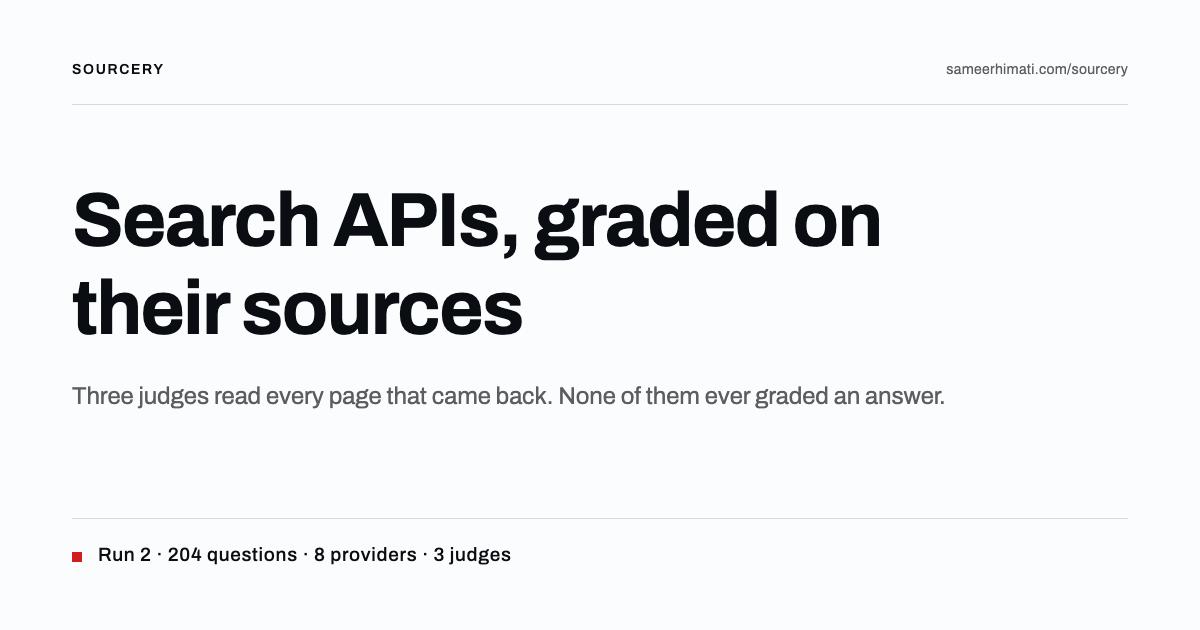
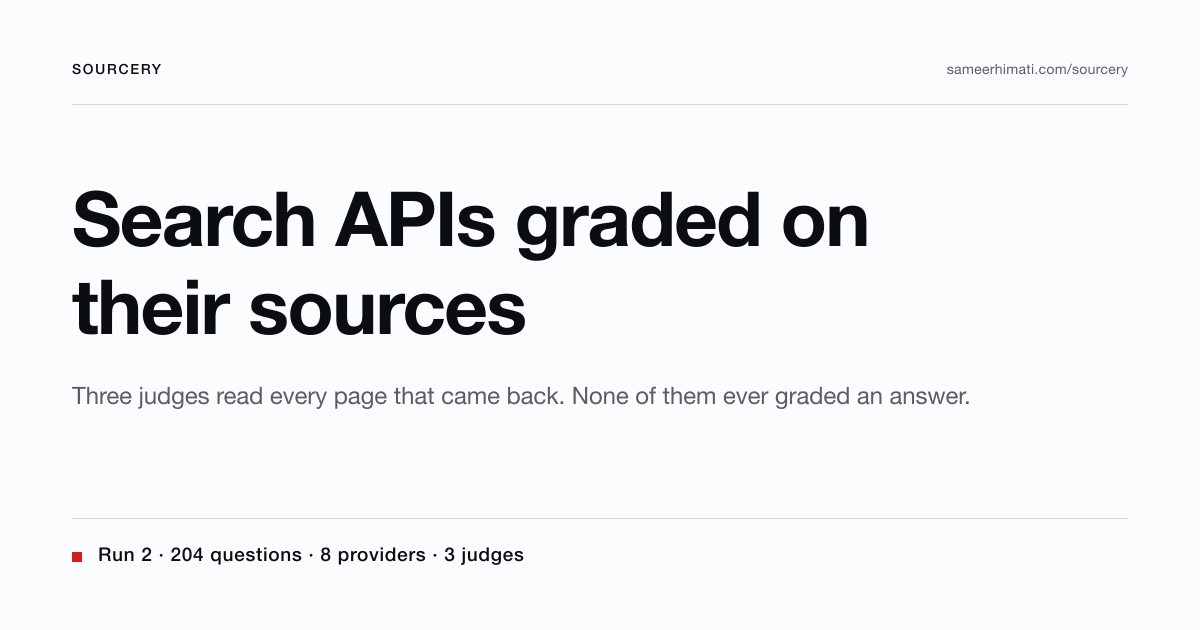
style(report): drop the comma out of the title, card included
"Search APIs, graded on their sources" reads as two things with a pause between
them. Without the comma it is one phrase, which is what it is.

The share card carried the old wording baked into a PNG, so it is re-rendered
from its SVG rather than left to contradict the page it previews.

Claude-Session: https://claude.ai/code/session_01JgQqCdJneZtCz9YXGqUVj4

diff --git a/docs/index.html b/docs/index.html
@@ -8,7 +8,7 @@
      asserts every number on the page traces back to the data file. -->
 <meta charset="utf-8">
 <meta name="viewport" content="width=device-width, initial-scale=1">
-<title>Search APIs, graded on their sources</title>
+<title>Search APIs graded on their sources</title>
 <meta name="description" content="Eight web-search APIs, the same 204 questions, three judges reading every page that came back, and never an answer. Results and full method.">
 <link rel="canonical" href="https://sameerhimati.com/sourcery/">
 
@@ -18,14 +18,14 @@
 <meta property="og:type" content="website">
 <meta property="og:site_name" content="Sourcery">
 <meta property="og:url" content="https://sameerhimati.com/sourcery/">
-<meta property="og:title" content="Search APIs, graded on their sources">
+<meta property="og:title" content="Search APIs graded on their sources">
 <meta property="og:description" content="Eight providers, the same 204 questions, one run. Three judges read every page that came back and none of them ever graded an answer.">
 <meta property="og:image" content="https://sameerhimati.com/sourcery/media/og-card.png">
 <meta property="og:image:width" content="1200">
 <meta property="og:image:height" content="630">
 <meta property="og:image:alt" content="Sourcery, search APIs graded on their sources. Run 2: 204 questions, eight providers, three judges.">
 <meta name="twitter:card" content="summary_large_image">
-<meta name="twitter:title" content="Search APIs, graded on their sources">
+<meta name="twitter:title" content="Search APIs graded on their sources">
 <meta name="twitter:description" content="Eight providers, the same 204 questions, one run. Three judges read every page that came back and none of them ever graded an answer.">
 <meta name="twitter:image" content="https://sameerhimati.com/sourcery/media/og-card.png">
 
@@ -392,7 +392,7 @@ footer p { font-size: 0.86rem; color: var(--muted); }
 </nav>
 
 <header class="lead">
-  <h1>Search APIs, graded on their sources</h1>
+  <h1>Search APIs graded on their sources</h1>
   <p class="standfirst"><a href="https://artificialanalysis.ai/agents/search-api">Benchmarks of search APIs</a> tend to grade providers by judging the answer a model writes after retrieval. In my view that is a judge of the model more than of the search provider itself. With Sourcery I wanted to evaluate these providers controlling for the LLM, judging on the fetched results rather than the output. All eight providers got the same 204 questions in a single run, then 3 models, Claude Sonnet 5, GPT-5.6 Terra and GLM 5.2, read every page and scored it.</p>
 </header>
 

diff --git a/site/report.html b/site/report.html
@@ -8,7 +8,7 @@
      asserts every number on the page traces back to the data file. -->
 <meta charset="utf-8">
 <meta name="viewport" content="width=device-width, initial-scale=1">
-<title>Search APIs, graded on their sources</title>
+<title>Search APIs graded on their sources</title>
 <meta name="description" content="Eight web-search APIs, the same __N_QUESTIONS__ questions, three judges reading every page that came back, and never an answer. Results and full method.">
 <link rel="canonical" href="__BASE__">
 
@@ -18,14 +18,14 @@
 <meta property="og:type" content="website">
 <meta property="og:site_name" content="Sourcery">
 <meta property="og:url" content="__BASE__">
-<meta property="og:title" content="Search APIs, graded on their sources">
+<meta property="og:title" content="Search APIs graded on their sources">
 <meta property="og:description" content="Eight providers, the same __N_QUESTIONS__ questions, one run. Three judges read every page that came back and none of them ever graded an answer.">
 <meta property="og:image" content="__BASE__media/og-card.png">
 <meta property="og:image:width" content="1200">
 <meta property="og:image:height" content="630">
 <meta property="og:image:alt" content="Sourcery, search APIs graded on their sources. Run 2: __N_QUESTIONS__ questions, eight providers, three judges.">
 <meta name="twitter:card" content="summary_large_image">
-<meta name="twitter:title" content="Search APIs, graded on their sources">
+<meta name="twitter:title" content="Search APIs graded on their sources">
 <meta name="twitter:description" content="Eight providers, the same __N_QUESTIONS__ questions, one run. Three judges read every page that came back and none of them ever graded an answer.">
 <meta name="twitter:image" content="__BASE__media/og-card.png">
 
@@ -69,7 +69,7 @@ __STYLE__
 __NAV__
 
 <header class="lead">
-  <h1>Search APIs, graded on their sources</h1>
+  <h1>Search APIs graded on their sources</h1>
   <p class="standfirst"><a href="https://artificialanalysis.ai/agents/search-api">Benchmarks of search APIs</a> tend to grade providers by judging the answer a model writes after retrieval. In my view that is a judge of the model more than of the search provider itself. With Sourcery I wanted to evaluate these providers controlling for the LLM, judging on the fetched results rather than the output. All eight providers got the same __N_QUESTIONS__ questions in a single run, then 3 models, Claude Sonnet 5, GPT-5.6 Terra and GLM 5.2, read every page and scored it.</p>
 </header>
 
